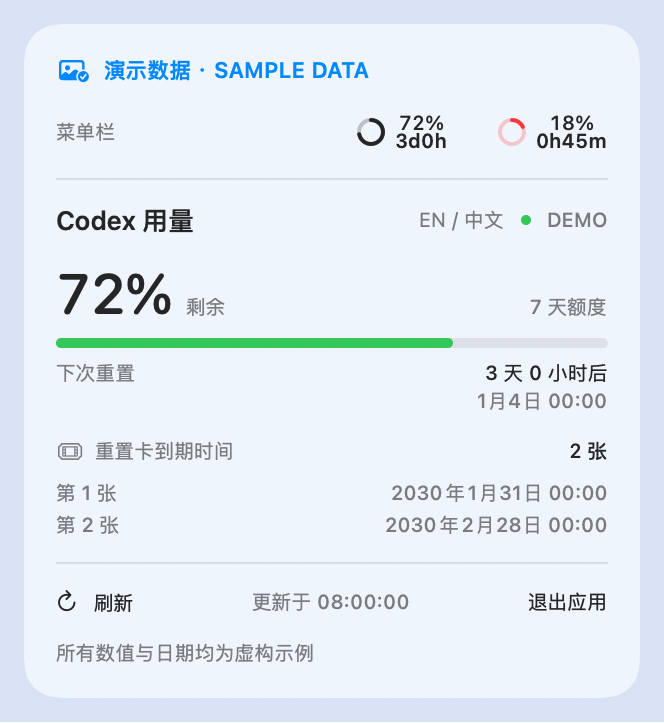
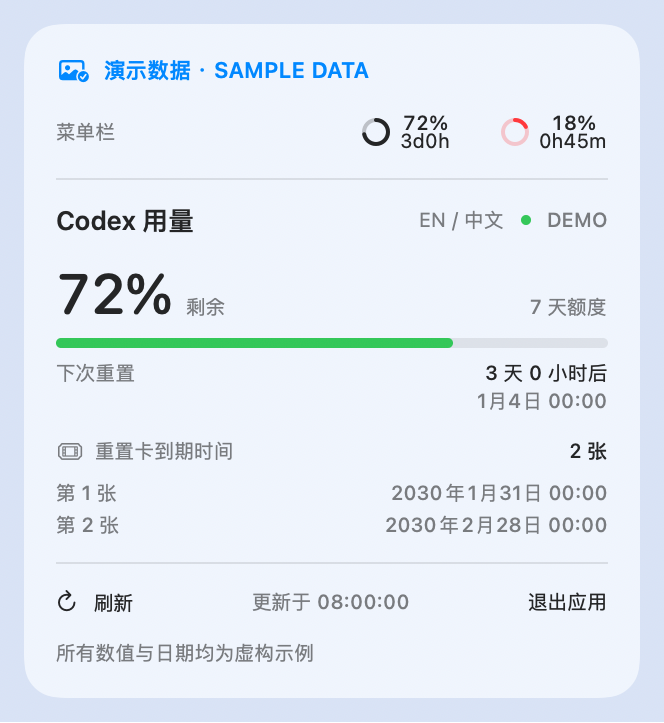
Keep the countdown at regular weight

Changed region(s): [[0.753, 0.1521, 0.9036, 0.213], [0.5422, 0.1521, 0.6928, 0.213]]

diff --git a/Sources/CodexUsage/Services/StatusItemController.swift b/Sources/CodexUsage/Services/StatusItemController.swift
@@ -100,7 +100,7 @@ private final class StatusItemContent: NSStackView {
         ring.contentTintColor = .labelColor
         ring.setAccessibilityElement(false)
         percent.font = .monospacedDigitSystemFont(ofSize: 10, weight: .medium)
-        countdown.font = .monospacedDigitSystemFont(ofSize: 10, weight: .semibold)
+        countdown.font = .monospacedDigitSystemFont(ofSize: 10, weight: .regular)
         for label in [percent, countdown] {
             label.alignment = .center
             label.setAccessibilityElement(false)

diff --git a/script/render_demo.swift b/script/render_demo.swift
@@ -22,7 +22,7 @@ struct DemoImage {
                 .renderingMode(ring.isLow ? .original : .template)
             VStack(spacing: -4) {
                 Text(percentage).font(.system(size: 10, weight: .medium).monospacedDigit())
-                Text(countdown).font(.system(size: 10, weight: .semibold).monospacedDigit())
+                Text(countdown).font(.system(size: 10).monospacedDigit())
             }
         }
     }

diff --git a/CHANGELOG.md b/CHANGELOG.md
@@ -2,7 +2,7 @@
 
 ## 1.8.1 · 2026-11-23
 
-- 放大并加粗菜单栏的重置倒计时，缩短它与上方剩余百分比之间的距离。
+- 放大菜单栏的重置倒计时，缩短它与上方剩余百分比之间的距离。
 
 ## 1.8.0 · 2026-11-23
 
